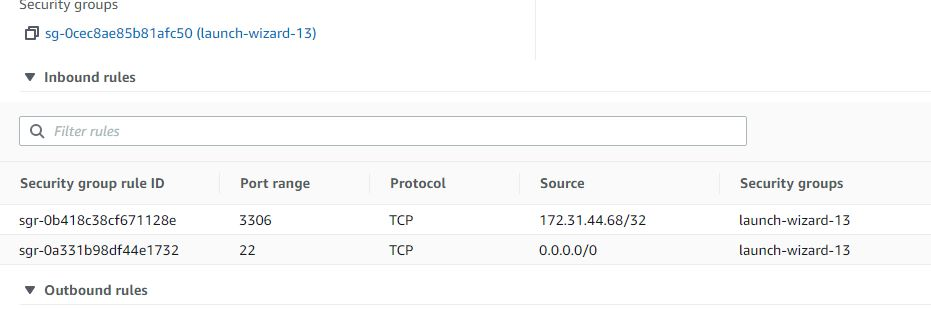
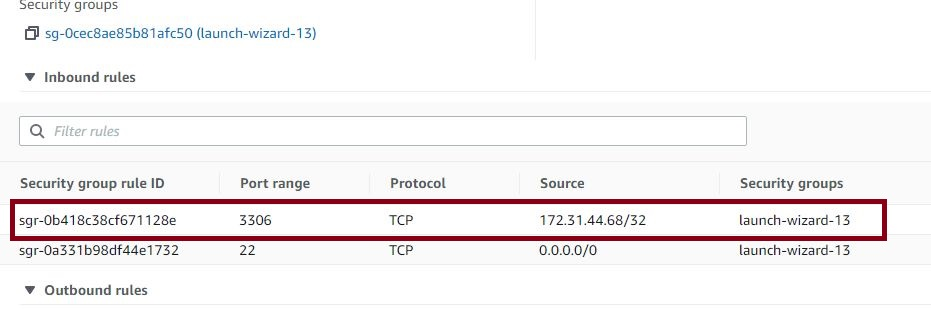
Writing to Project-5

Changed region(s): [[0.0, 0.6387, 0.9656, 0.7839]]

diff --git a/project5.md b/project5.md
@@ -1,1 +1,28 @@
 ## IMPLEMENT A CLIENT SERVER ARCHITECTURE USING MYSQL DATABASE MANAGEMENT SYSTEM (DBMS).
+
+
+This project I would be demonstrating how a Linux server(client) connects to a Linux Database (Server) using MySQL Relational Database Management System (RDBMS).
+
+First I'm going to create two Linux-based virtual servers (EC2 instances in AWS)
+
+<code> Server A name - `mysql server`
+
+Server B name - `mysql client`</code>
+
+![alt text](./Images/step%201.JPG)
+
+Install MySQL server on the MySQL Server & MySQL client on the Client Server
+
+Next, both Linux servers has to be on the same local virtual network. This will enable them both to communicate with each other using a local IP addresses.
+
+I will be using MySQL server local IP address to connect from MySQL Client, MySQL server uses TCP port 3306 by default. I will have configure 'Inbound rules' in the security Groups for 'MySQL Server'.
+
+For additional security do not allow all IP address to connect to MySQL Server, only a specific local IP address which will be my 'MySQL client' Linux server.
+
+Which is *172.31.44.68*
+
+![alt text](./Images/Inbound%20security%20group%202.JPG)
+
+
+
+
